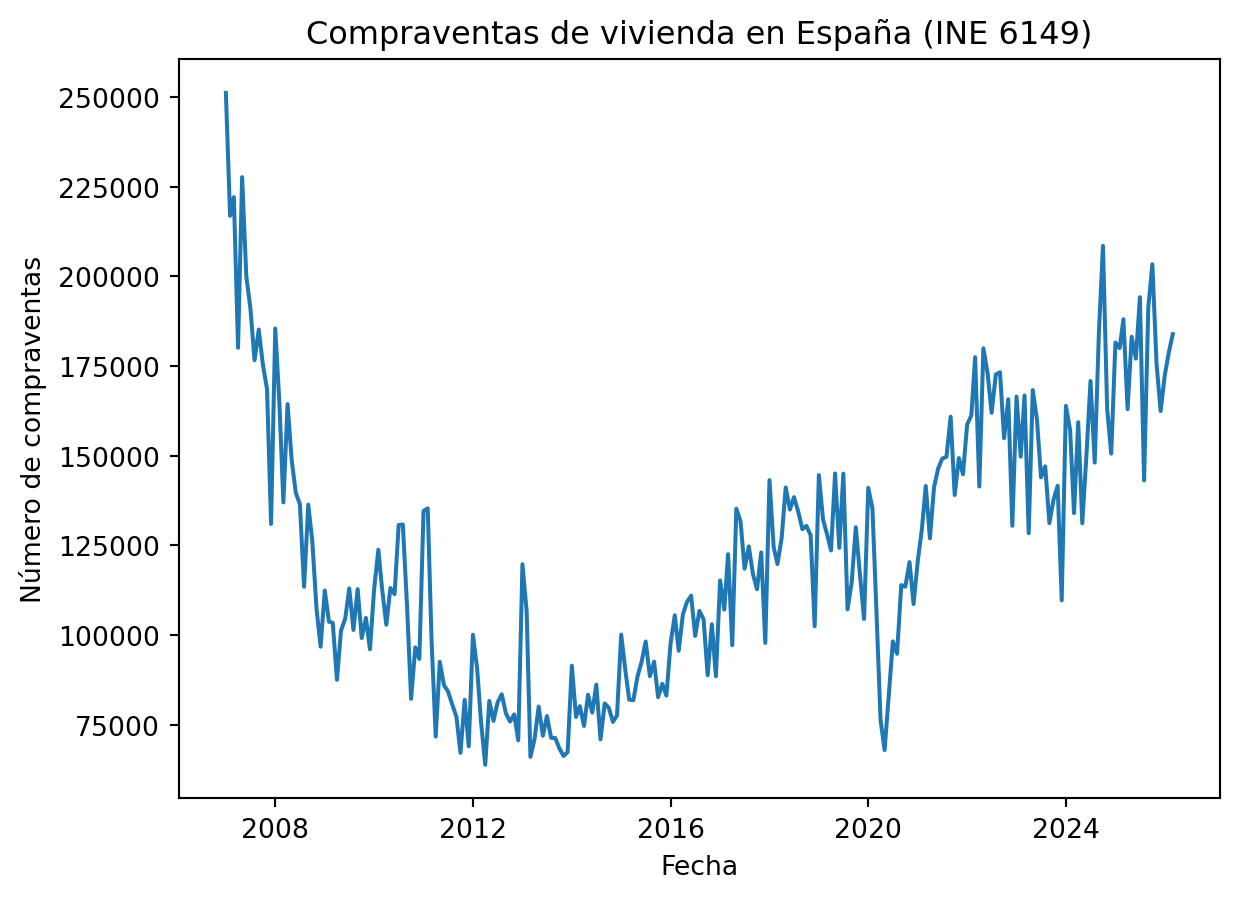
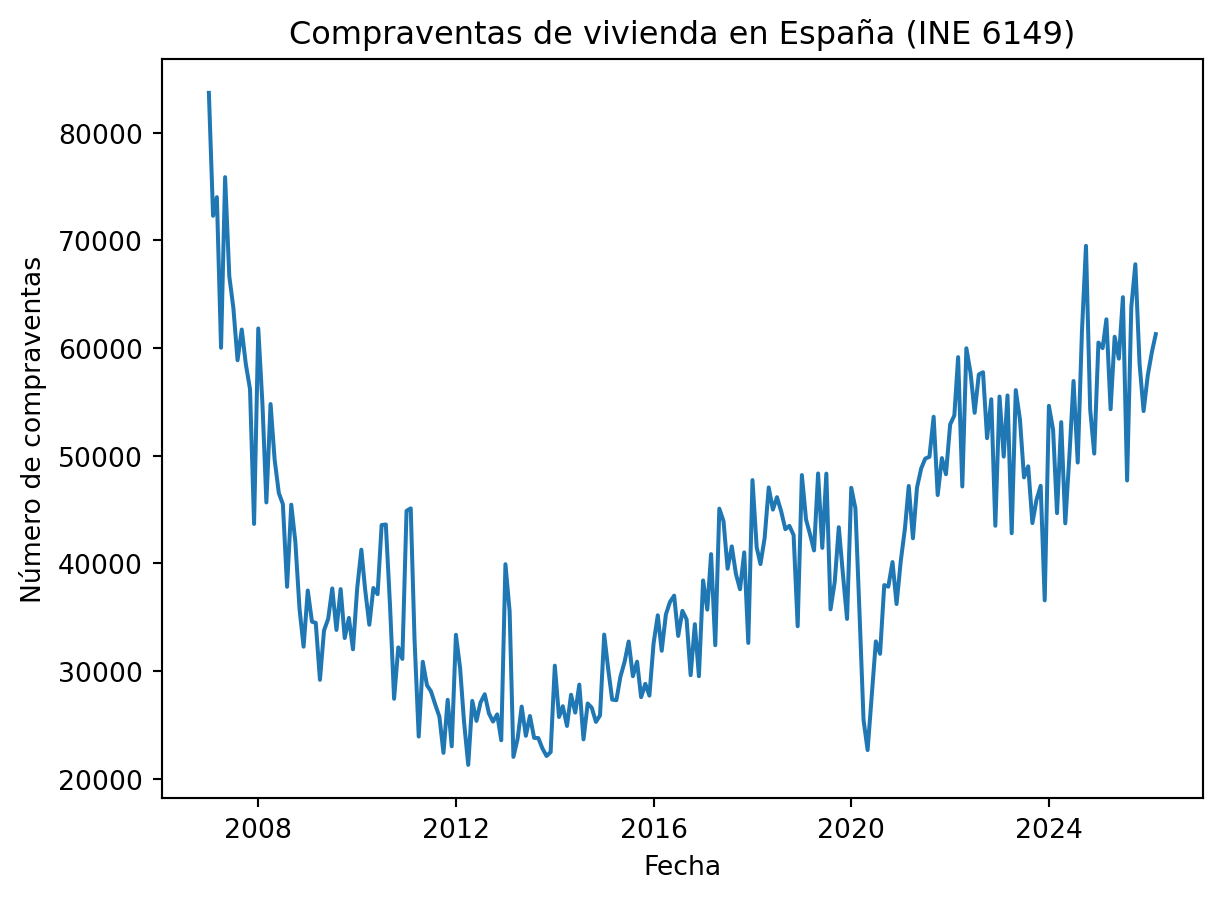
Built site for gh-pages

diff --git a/index.html b/index.html
@@ -129,11 +129,11 @@ ul.task-list li input[type="checkbox"] {
 </section>
 <section id="compraventas-de-vivienda-ine" class="level2">
 <h2 class="anchored" data-anchor-id="compraventas-de-vivienda-ine">Compraventas de vivienda (INE)</h2>
-<div id="4d31ffca" class="cell" data-execution_count="1">
+<div id="566ec84d" class="cell" data-execution_count="1">
 <div class="cell-output cell-output-display">
 <div>
 <figure class="figure">
-<p><img src="index_files/figure-html/cell-2-output-1.png" width="620" height="450" class="figure-img"></p>
+<p><img src="index_files/figure-html/cell-2-output-1.png" width="611" height="450" class="figure-img"></p>
 </figure>
 </div>
 </div>